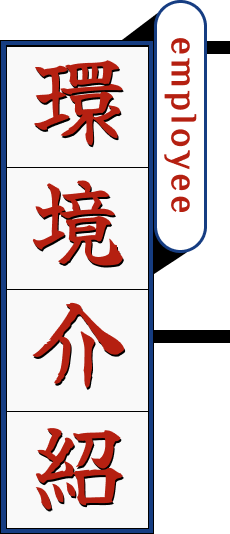
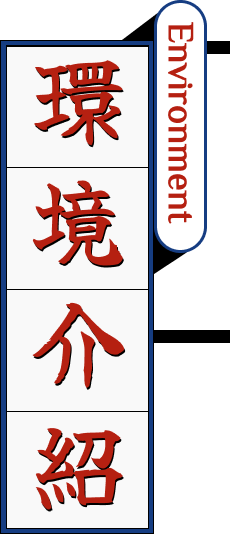
fix employee

Changed region(s): [[0.7, 0.03, 0.8522, 0.4195]]

diff --git a/src/components/MemRegister.vue b/src/components/MemRegister.vue
@@ -29,7 +29,7 @@
                     <input type="password" maxlength="15" v-model="password">
                     <input type="password" maxlength="15" v-model="passwordAgain">
                     <input type="text" maxlength="10" v-model="name">
-                    <input type="text" maxlength="40" v-model="email">
+                    <input type="email" maxlength="40" v-model="email">
                     <input type="date" v-model="birthday">
                     <input type="text" maxlength="10" v-model="phone">
                     <input type="text" maxlength="10" v-model="localphone">

diff --git a/src/components/Employee.vue b/src/components/Employee.vue
@@ -15,7 +15,7 @@
                     <p class="title_font">環</p>
                     <p class="title_font">境</p>
                 </h2>
-                <small>• ENTREPRENEURIAL IDEA •</small>
+                <small>• STORE ENVIRONMENT •</small>
             </div>
             <div class="container">
                 <div class="row row_hall">

diff --git a/src/components/About.vue b/src/components/About.vue
@@ -122,6 +122,8 @@ export default {
             z: -200,
             ease: "back"
         });
+
+        
         gsap.from(".frame_two",{
             scrollTrigger: {
                 trigger: ".frame_two",
